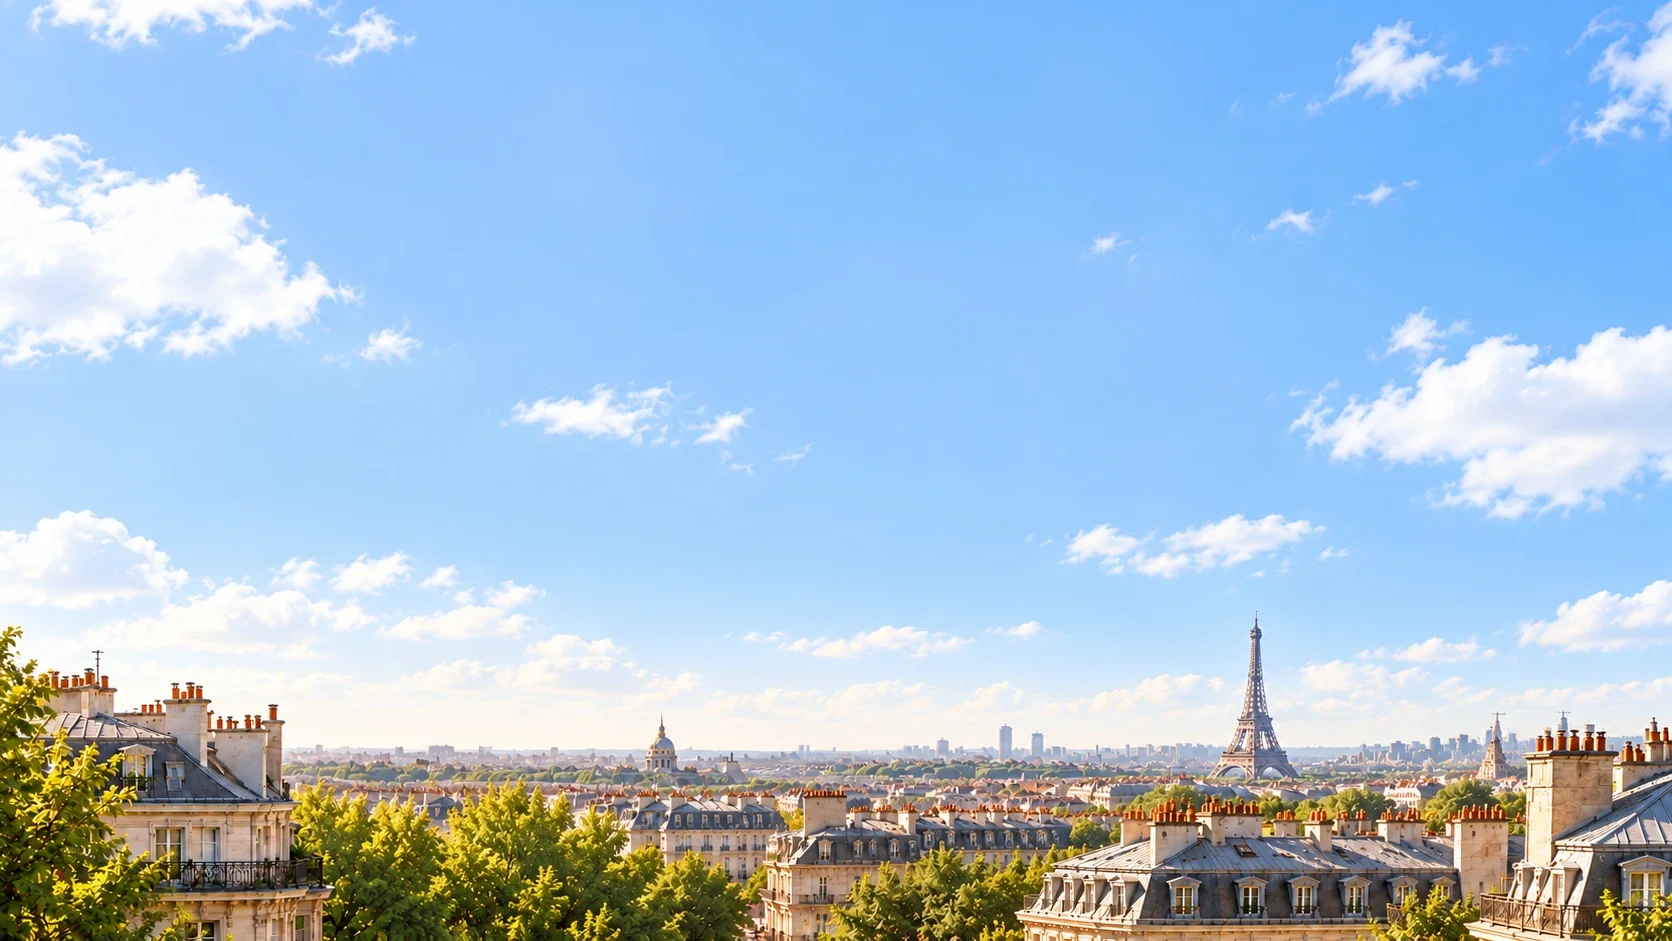
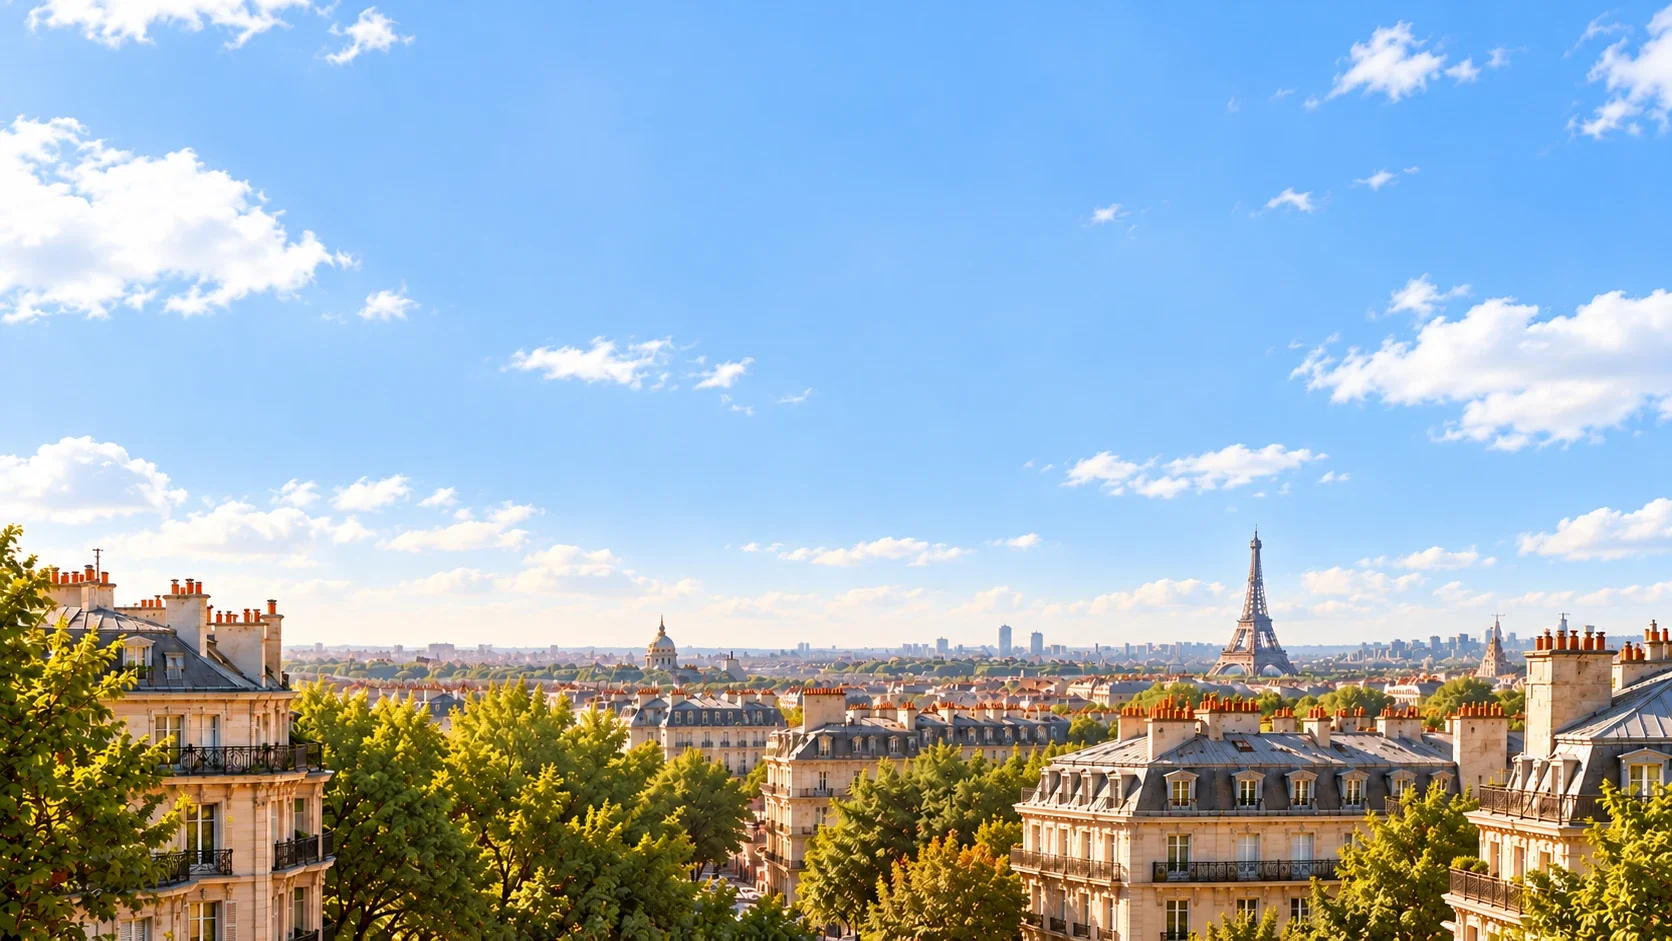
Remplacer la photo hero et retirer le fondu (coupure nette)

diff --git a/app/globals.css b/app/globals.css
@@ -1216,8 +1216,6 @@ html { overflow-x: hidden; }
   background-size: cover;
   background-repeat: no-repeat;
   opacity: 0.95;
-  mask-image: linear-gradient(to bottom, black 0%, black 80%, transparent 100%);
-  -webkit-mask-image: linear-gradient(to bottom, black 0%, black 80%, transparent 100%);
 }
 .hero-bg-overlay {
   position: absolute;
@@ -1228,8 +1226,6 @@ html { overflow-x: hidden; }
   z-index: 4;
   pointer-events: none;
   background: radial-gradient(ellipse 55% 42% at 50% 24%, rgba(255,255,255,0.75) 0%, rgba(255,255,255,0.4) 55%, transparent 100%);
-  mask-image: linear-gradient(to bottom, black 0%, black 80%, transparent 100%);
-  -webkit-mask-image: linear-gradient(to bottom, black 0%, black 80%, transparent 100%);
 }
 .hero-inner {
   max-width: 1320px;
